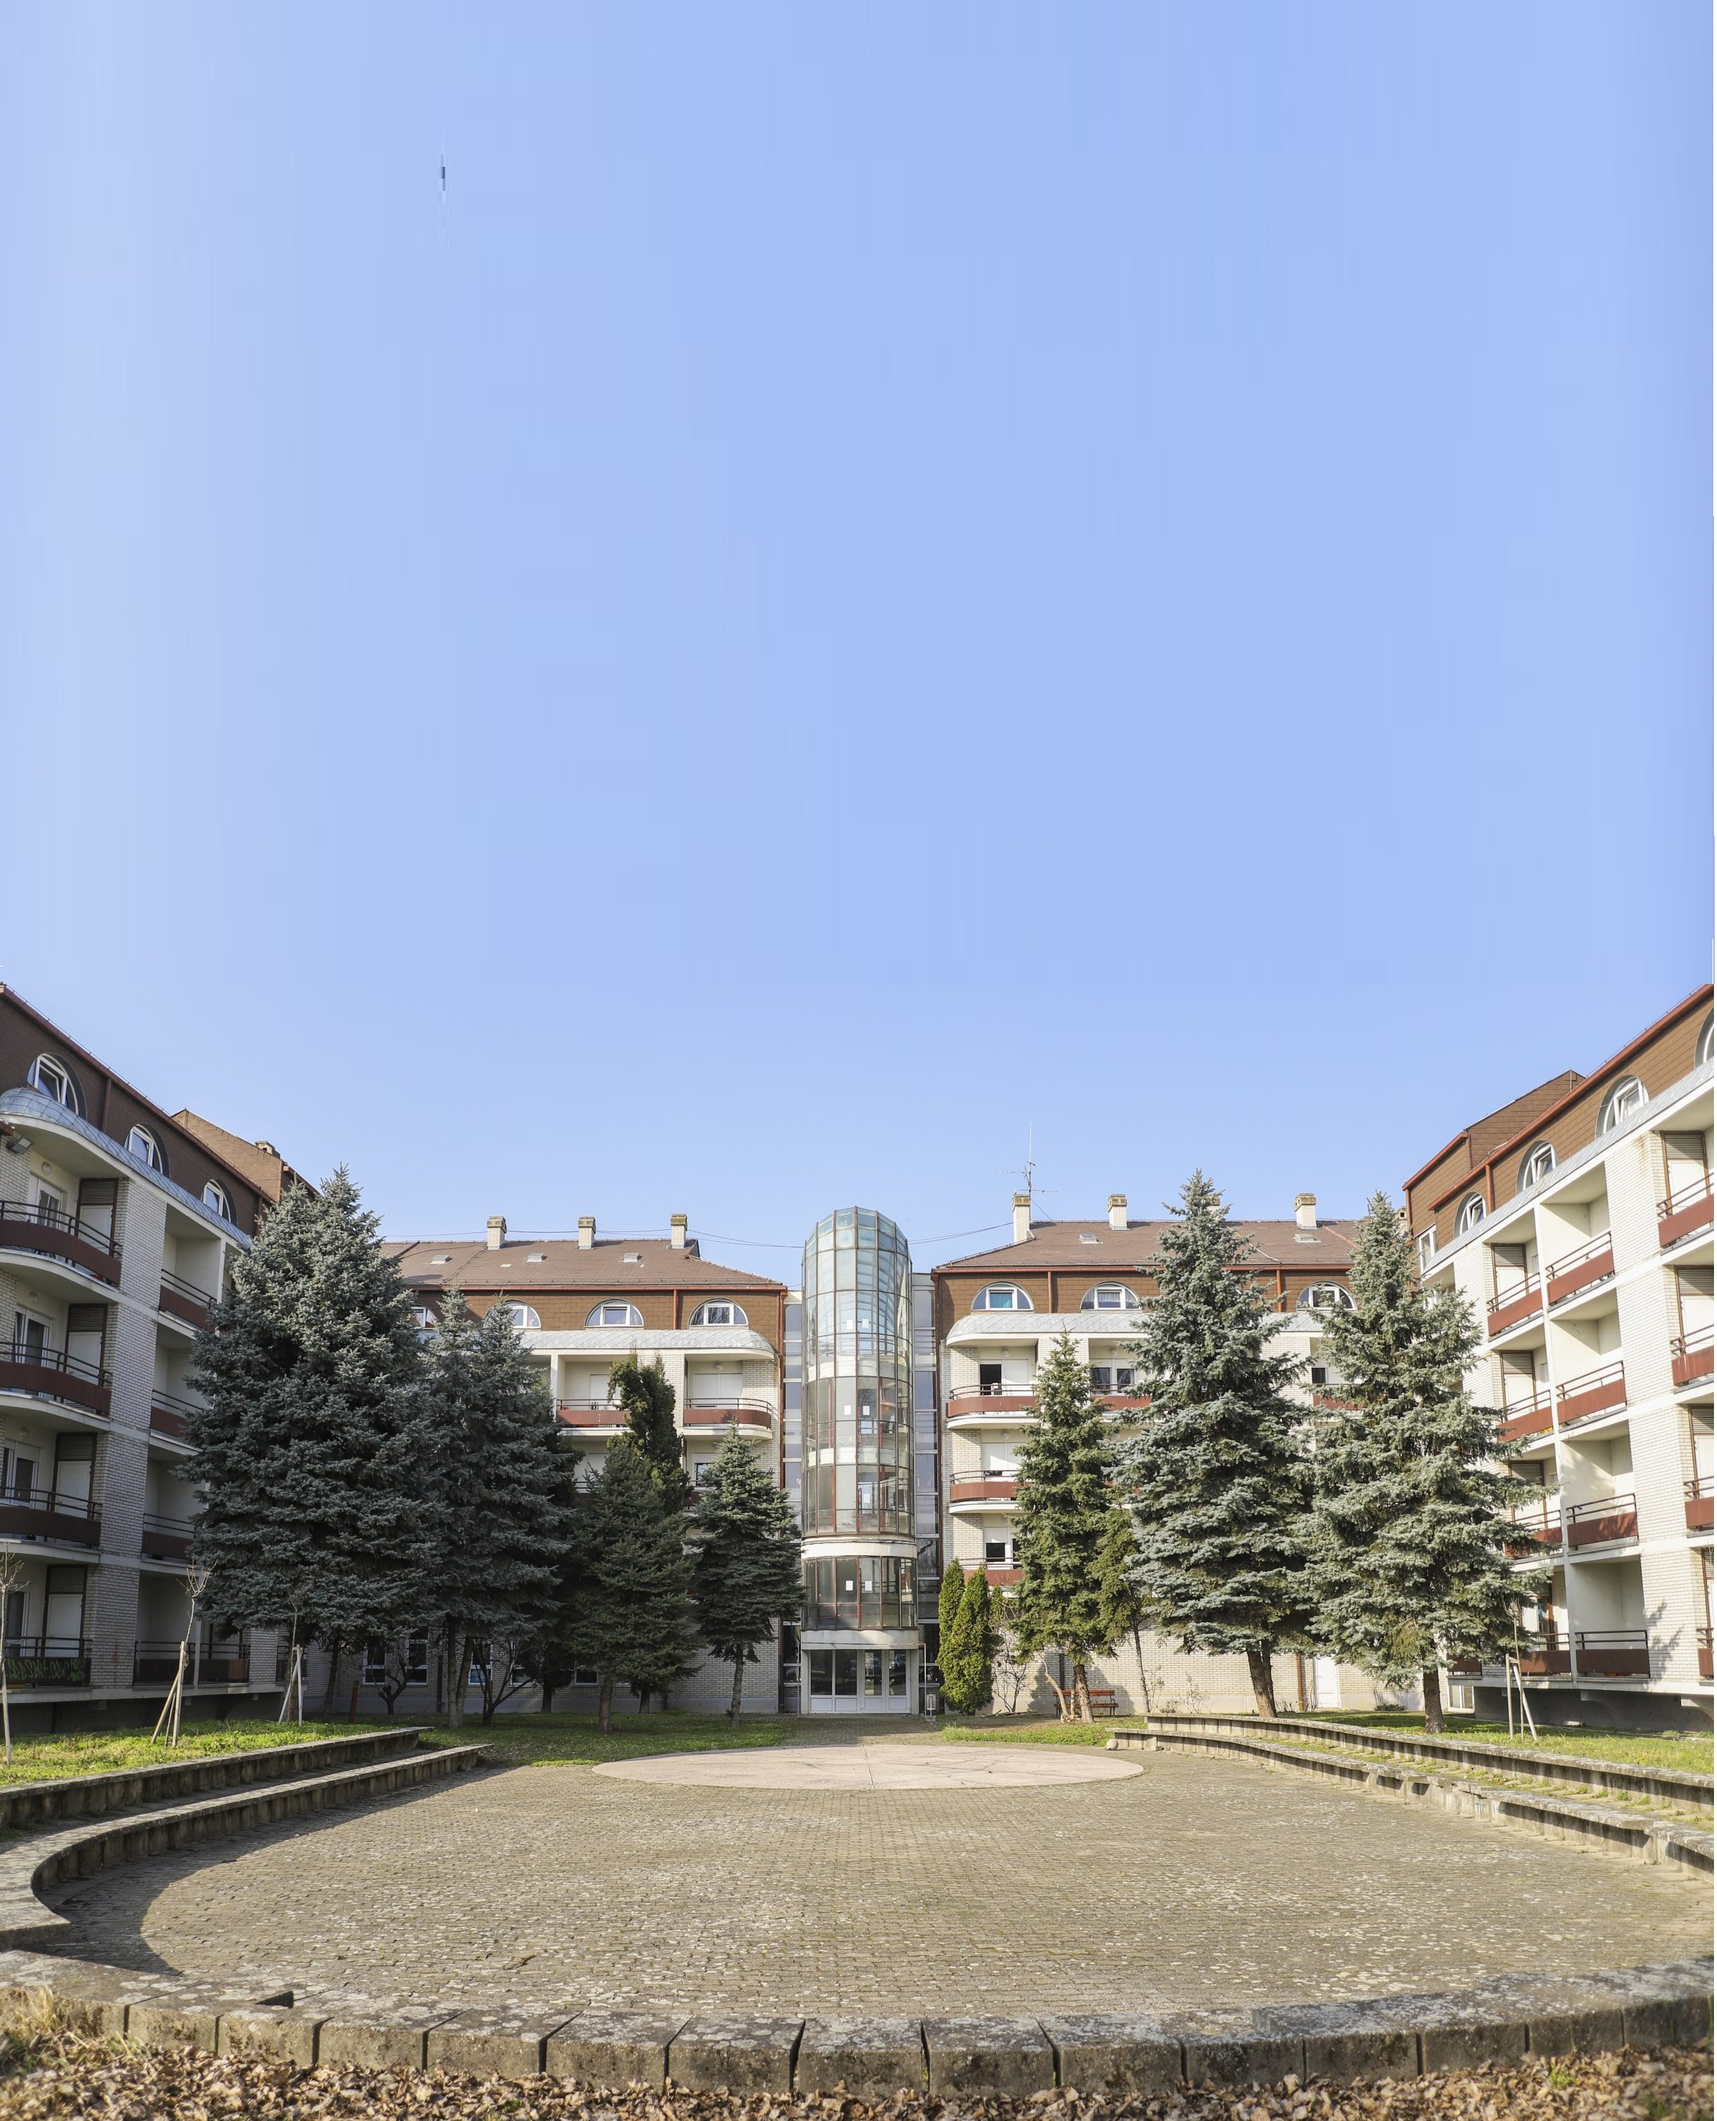
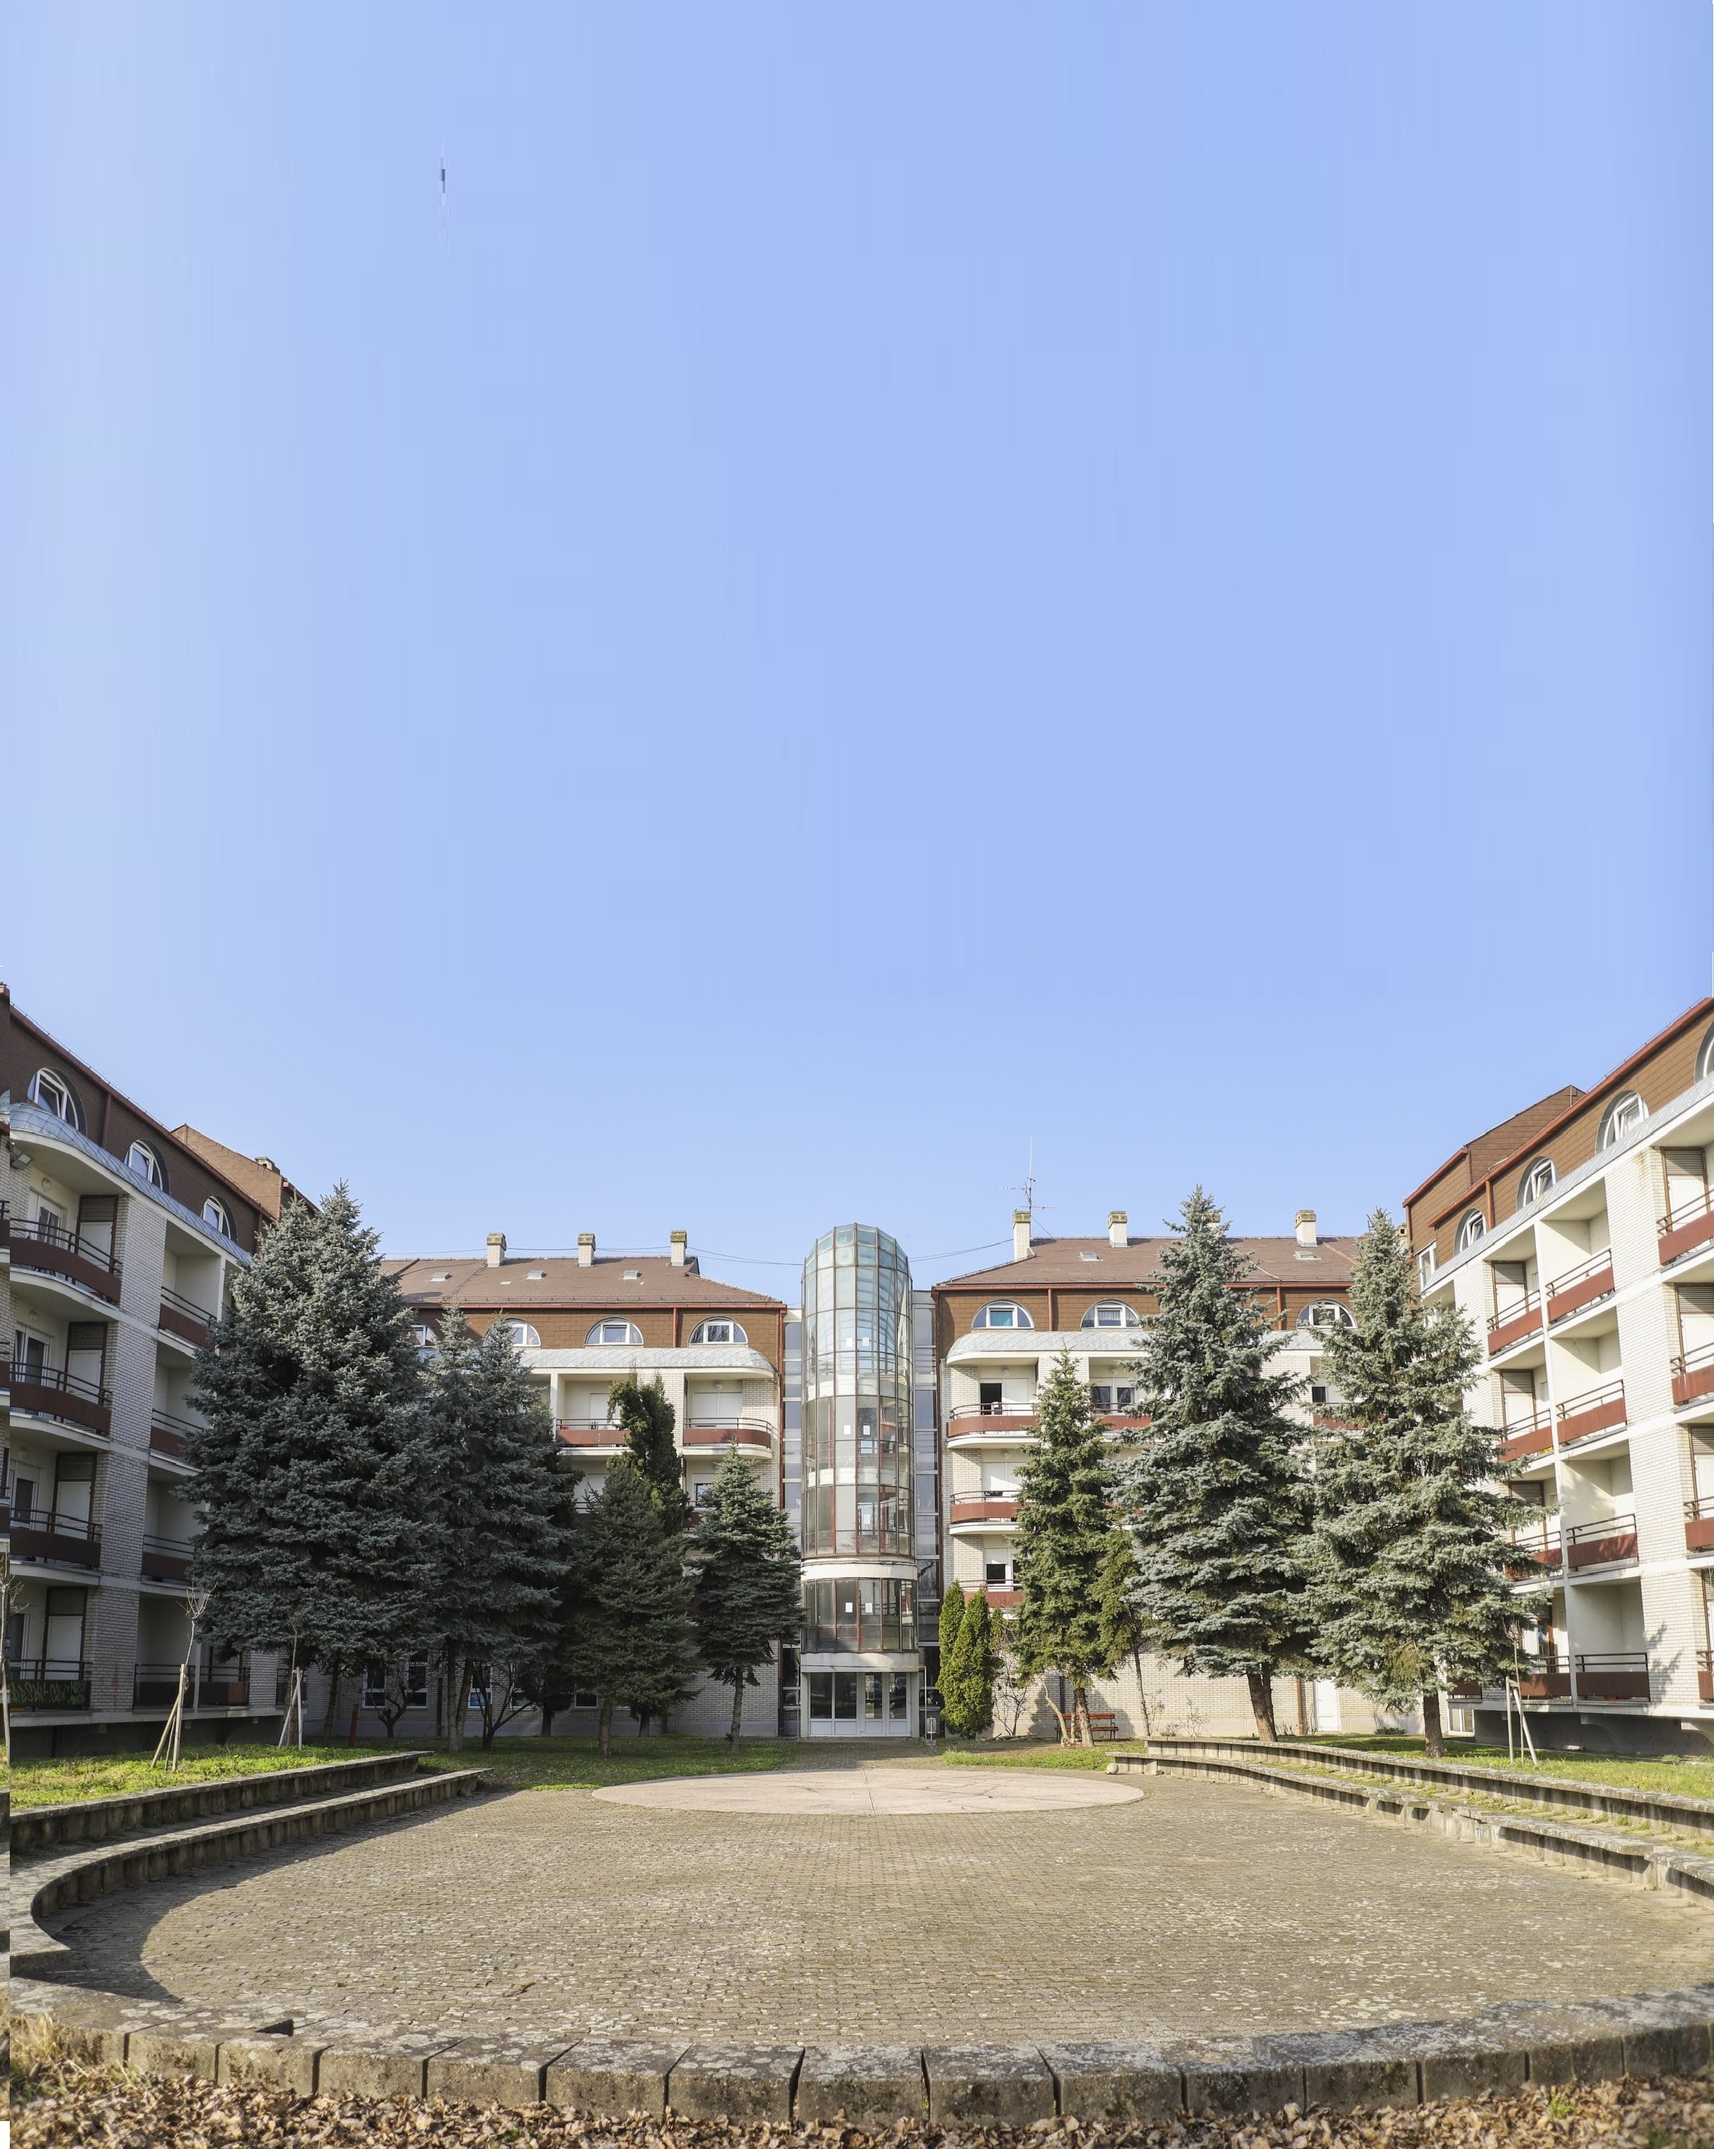
Contact me - Email Setup

Changed region(s): [[0.0, 0.4642, 1.0, 1.0]]

diff --git a/indexContactMe.html b/indexContactMe.html
@@ -25,22 +25,28 @@
                 </div>
             </div>
         </div>
-        <a class="LabelForContactMeForm">Send message</a>
+        <!-- <div class="ContactMeForm">
         <form action="https://formsubmit.co/aleksandar.alempic93@gmail.com" method="POST">
+            <input type="text" name="name" required>
+            <input type="email" name="email" required>
+            <button type="submit">Send</button>
+       </form>
+    </div> -->
+       <a class="LabelForContactMeForm">Send message</a>
+        <form >
         <div class="ContactMeForm"> 
             <div  class="fadeAboutMe">
-                <div class="form-group">
             <table>
                 <tr style="display:inline-flex;">
                  <td> <a class="LabelForContactFullName">Full name</a>
                     <div>
-                        <input type="text" class="inputFullName" name="name">
+                        <input type="text" name="name" class="inputFullName" id="name">
                         <div id = "nameValidation" class="error-hintFullname hidden fadeAboutMe">This is Mandatory field</div>
                     </div></td>
                     <td>
                         <a class="LabelForContactEmail">Email</a>
                         <div>
-                            <input type="email" name="email" class="inputEmail" id="email">
+                            <input name="email" class="inputEmail" id="email">
                             <div id="emailValidation" class="error-hintEmail hidden fadeAboutMe">This is Mandatory field</div>
                             <div id="emailValidationHiddenRegex" class="error-hintEmail hiddenRegex fadeAboutMe">Please enter a vaild mail</div>
                         </div></td>
@@ -57,15 +63,14 @@
                 </td>
                     <td>
                         <div>
-                            <input type="submit" name="submit" class="btnSend" value="Send">
+                            <button type="submit" class="btnSend" id="btnSend">Send</button>
                         </div></td>
                     </td>
                 </tr>
             </table>
         </div>
-       </div>
         </div>
-      </form>
+       </form> 
         <div class="ContactMeLeftFirstBackground"></div>
     </div>
     <div class="HomePageRight">
@@ -82,10 +87,7 @@
         </div>
         <div class="ContactMePageRightimg1 SectionAtTheTop"></div>
     </div>
+    <script src="https://smtpjs.com/v3/smtp.js"></script>
+    <script src="script/FormValidation.js" defer></script>
 </body>
-<script src="script/FormValidation.js" defer></script>
 </html>
-<!-- <script src="script/jsAboutMe.js"></script>
-<script src="script/jsRightBackground.js"></script>
-<script src="script/jsLeftBackground.js"></script> -->
-<!-- <script src="script/jsRightBackground copy.js"></script>

diff --git a/script/FormValidation.js b/script/FormValidation.js
@@ -50,7 +50,19 @@ const validateInputsEmail= () => {
     }
 }
 
-
+function sendEmail(){
+Email.send({
+Host : "smtp.elasticemail.com",
+Username : "aleksandar.alempic93@gmail.com",
+Password : "79B64EFB6146214D589EC15D1A55A467F2BF",
+To : 'aleksandar.alempic93@gmail.com',
+From : document.getElementById("email").value,
+Subject : "",
+Body : bodyInput.value,
+}).then(
+message => alert(message)
+);
+}
 
 form.addEventListener("submit", (e) => {
       e.preventDefault();
@@ -58,7 +70,7 @@ form.addEventListener("submit", (e) => {
       validateInputsBody();
       regexEmail();
       validateInputsEmail();
-     
+      sendEmail();
 });
 
 

diff --git a/indexPortfolioPage.html b/indexPortfolioPage.html
@@ -50,6 +50,7 @@
                 <div class="PortfolioPageRightimg1 SectionAtTheTop mySlidesRightBackground fadeLeftBackground"></div>
                 <div class="PortfolioPageRightimg2 SectionAtTheTop mySlidesRightBackground fadeLeftBackground"></div>
         </div>   
+        <script src="https://smtpjs.com/v3/smtp.js"></script>
 </body>
 <script src="script/jsRightBackground.js"></script>
 <script src="script/jsLeftBackground.js"></script>

diff --git a/styles/styles.css b/styles/styles.css
@@ -79,14 +79,14 @@ ul {
   }
 
 .HomePageLeft{
-  width: 51.3%;
-  height: 100%;
+  width: 4095px;
+  height: 2950px;
   overflow: hidden;
 }
 
 .HomePageRight{
   width: 25.4%;
-  height: 100%;
+  height: 100%
   overflow: hidden;
 }
 
@@ -677,7 +677,7 @@ ul {
 
 .SectionAtTheTop{
     width: 2030px;
-    height: 2850px;
+    height: 2950px;
     position: relative;
     bottom: 0;
     color: #f1f1f1;
